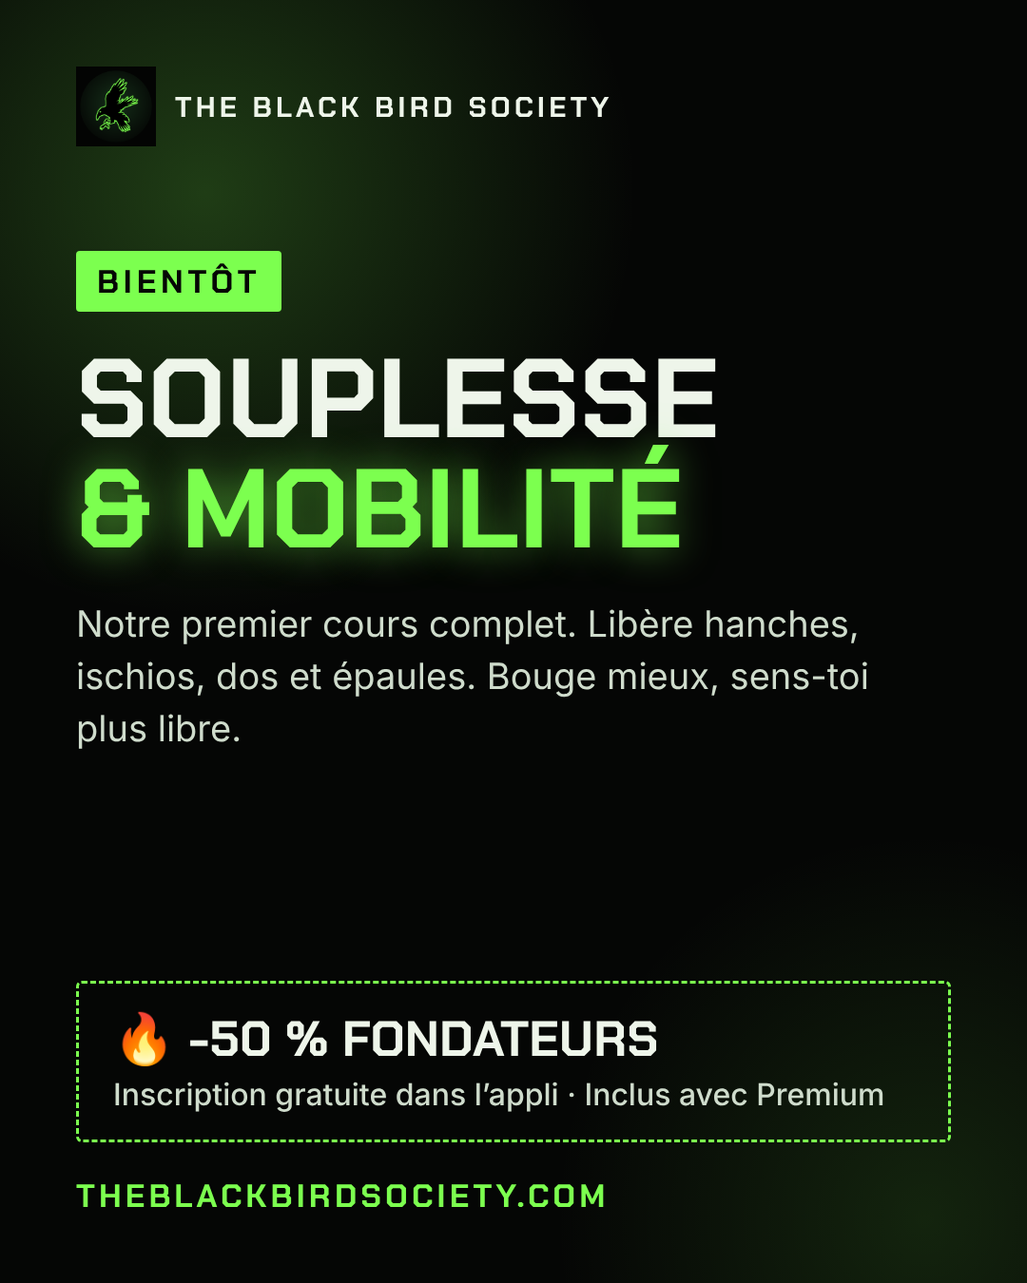
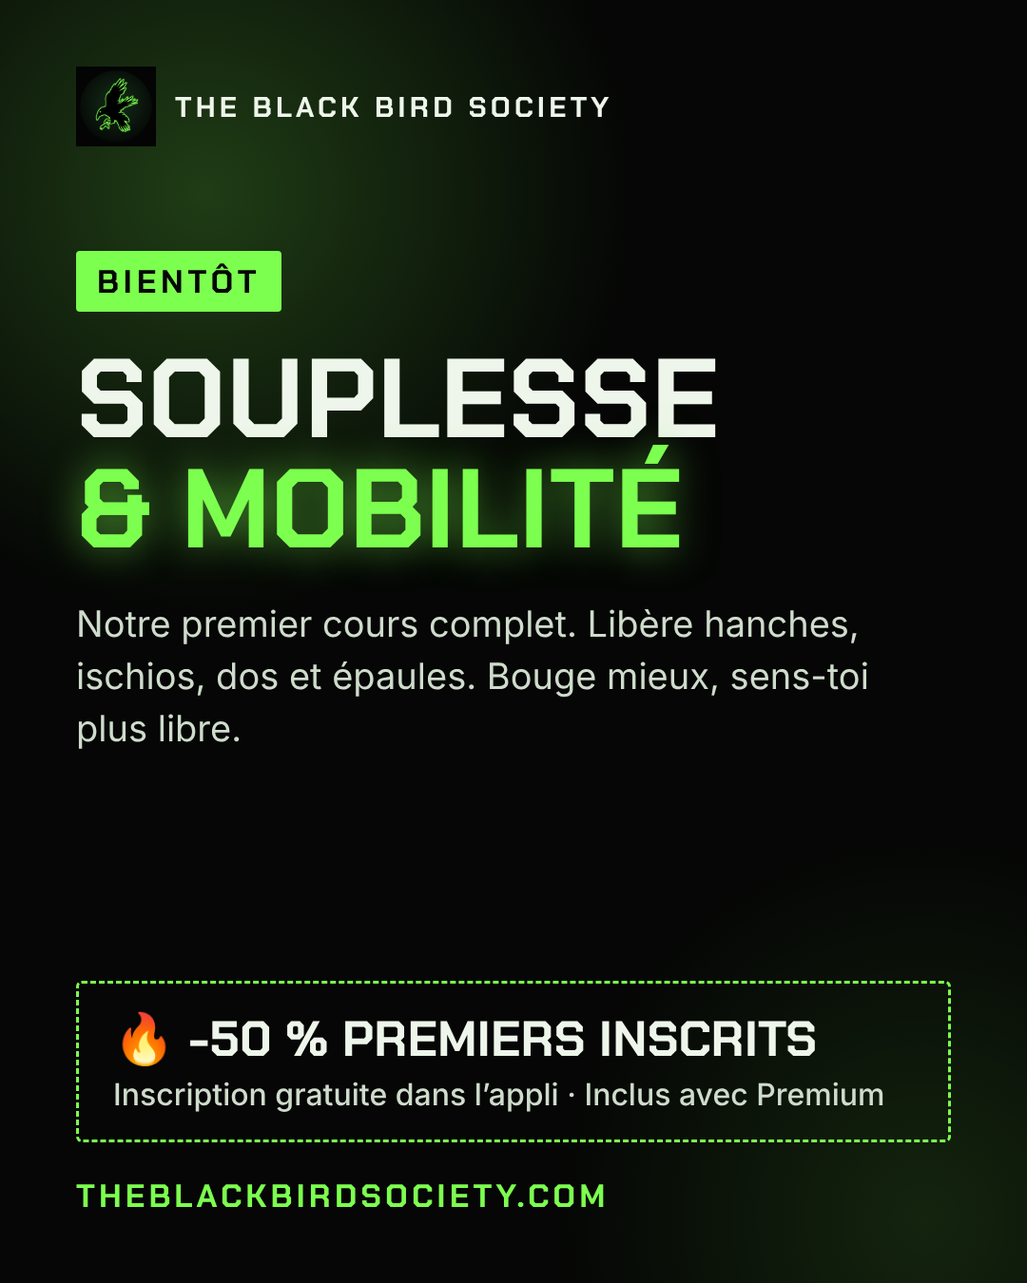
v75: Early bird wording for course offer (app, site, social images)
Claude-Session: https://claude.ai/code/session_01Uk22qZNG7xQMaRAJ8uwC6G

Changed region(s): [[0.3361, 0.7778, 0.7944, 0.84]]

diff --git a/courses.html b/courses.html
@@ -1,8 +1,8 @@
 <!doctype html>
 <html lang="en"><head><meta charset="utf-8"><meta name="viewport" content="width=device-width, initial-scale=1, viewport-fit=cover">
-<title>Society Courses | The Black Bird Society</title><meta name="description" content="Full fitness courses from The Black Bird Society. Flexibility & Mobility is coming soon: founders get 50% off, Premium members get every course included."><link rel="canonical" href="https://theblackbirdsociety.com/courses.html">
+<title>Society Courses | The Black Bird Society</title><meta name="description" content="Full fitness courses from The Black Bird Society. Flexibility & Mobility is coming soon: early birds get 50% off, Premium members get every course included."><link rel="canonical" href="https://theblackbirdsociety.com/courses.html">
 <meta name="theme-color" content="#050605"><link rel="icon" href="/favicon.ico" sizes="48x48"><link rel="icon" type="image/png" sizes="96x96" href="/favicon-96.png"><link rel="apple-touch-icon" href="/apple-touch-icon.png">
-<meta property="og:type" content="article"><meta property="og:url" content="https://theblackbirdsociety.com/courses.html"><meta property="og:title" content="Society Courses | The Black Bird Society"><meta property="og:description" content="Full fitness courses from The Black Bird Society. Flexibility & Mobility is coming soon: founders get 50% off, Premium members get every course included."><meta property="og:image" content="https://theblackbirdsociety.com/og.png">
+<meta property="og:type" content="article"><meta property="og:url" content="https://theblackbirdsociety.com/courses.html"><meta property="og:title" content="Society Courses | The Black Bird Society"><meta property="og:description" content="Full fitness courses from The Black Bird Society. Flexibility & Mobility is coming soon: early birds get 50% off, Premium members get every course included."><meta property="og:image" content="https://theblackbirdsociety.com/og.png">
 <link rel="preconnect" href="https://fonts.googleapis.com"><link rel="stylesheet" href="https://fonts.googleapis.com/css2?family=Chakra+Petch:wght@500;600;700&family=Noto+Sans+Runic&family=Inter:wght@400;500;600;700&display=swap">
 <link rel="stylesheet" href="/site.css"><meta name="google-adsense-account" content="ca-pub-9202968623257308">
 <script async src="https://pagead2.googlesyndication.com/pagead/js/adsbygoogle.js?client=ca-pub-9202968623257308" crossorigin="anonymous"></script>
@@ -29,12 +29,12 @@
 .fq h3{font-size:18px;margin-top:22px}.fq p{margin-top:6px!important;font-size:16px!important}
 .feat{border-color:var(--green-dim)!important;background:radial-gradient(80% 120% at 0% 0%,rgba(124,255,79,.12),transparent 60%),var(--surface)!important}
 @media (max-width:560px){.cg{grid-template-columns:1fr}}
-</style><script type="application/ld+json">{"@context": "https://schema.org", "@type": "Article", "headline": "Society Courses", "description": "Full fitness courses from The Black Bird Society. Flexibility & Mobility is coming soon: founders get 50% off, Premium members get every course included.", "author": {"@type": "Organization", "name": "The Black Bird Society"}, "publisher": {"@type": "Organization", "name": "The Black Bird Society", "logo": {"@type": "ImageObject", "url": "https://theblackbirdsociety.com/icon-512.png"}}, "image": "https://theblackbirdsociety.com/og.png", "datePublished": "2026-11-20", "dateModified": "2026-11-20", "mainEntityOfPage": "https://theblackbirdsociety.com/courses.html", "inLanguage": "en"}</script><script type="application/ld+json">{"@context": "https://schema.org", "@type": "BreadcrumbList", "itemListElement": [{"@type": "ListItem", "position": 1, "name": "Home", "item": "https://theblackbirdsociety.com/"}, {"@type": "ListItem", "position": 2, "name": "Blog", "item": "https://theblackbirdsociety.com/blog/"}, {"@type": "ListItem", "position": 3, "name": "Home or gym? Both work"}]}</script></head><body>
+</style><script type="application/ld+json">{"@context": "https://schema.org", "@type": "Article", "headline": "Society Courses", "description": "Full fitness courses from The Black Bird Society. Flexibility & Mobility is coming soon: early birds get 50% off, Premium members get every course included.", "author": {"@type": "Organization", "name": "The Black Bird Society"}, "publisher": {"@type": "Organization", "name": "The Black Bird Society", "logo": {"@type": "ImageObject", "url": "https://theblackbirdsociety.com/icon-512.png"}}, "image": "https://theblackbirdsociety.com/og.png", "datePublished": "2026-11-20", "dateModified": "2026-11-20", "mainEntityOfPage": "https://theblackbirdsociety.com/courses.html", "inLanguage": "en"}</script><script type="application/ld+json">{"@context": "https://schema.org", "@type": "BreadcrumbList", "itemListElement": [{"@type": "ListItem", "position": 1, "name": "Home", "item": "https://theblackbirdsociety.com/"}, {"@type": "ListItem", "position": 2, "name": "Blog", "item": "https://theblackbirdsociety.com/blog/"}, {"@type": "ListItem", "position": 3, "name": "Home or gym? Both work"}]}</script></head><body>
 <header class="top"><div class="wrap">
   <a class="brand" href="/"><img src="/icon.png" alt=""><span><b>THE BLACK BIRD SOCIETY</b><small>EST. 2026</small></span></a>
   <nav class="links"><a class="hide-m" href="/#who">Who it's for</a><a class="hide-m" href="/#features">The app</a><a class="hide-m" href="/courses.html">Courses</a><a class="hide-m" href="/blog/">Blog</a><a class="hide-m" href="/#pricing">Pricing</a><a href="/app">Open the app</a></nav>
 </div></header>
-<main class="wrap pg"><div class="art" data-l="en" id="art"><p class="crumb"><a href="/">Home</a> / Courses</p><div class="lg"><button data-x="en" class="on">EN</button><button data-x="fr">FR</button></div><div class="en"><h1>Society Courses</h1><p class="lead">Deep-dive programs built by our coaches. Buy a course once and keep it forever, or get every course included with Premium. The free app stays free.</p><div class="cta-box feat"><span class="btag">Coming soon</span><h3 style="font-size:30px;margin-top:10px">Flexibility &amp; Mobility</h3><p>A complete program to free up your hips, hamstrings, back and shoulders. Move better, feel looser, train with less pain.</p><p>🔥 <b>Founder offer:</b> join the list now and get <b>50% off</b> at launch. Your rank discount stacks on top.</p><a class="btn btn-green" href="/app?c=1">Join the list · 50% off</a></div><div class="ghead"><span>ᚠ</span><h2>How it works</h2></div><div class="cg"><div><b>Buy once, keep forever</b><span>No subscription needed. The course is yours for life.</span></div><div><b>First lesson free</b><span>Try it before you buy, every course.</span></div><div><b>Premium includes all</b><span>Premium members get every course, now and future, at no extra cost.</span></div><div><b>Rank perks</b><span>The more you train, the less you pay: up to 20% off.</span></div></div><div class="ghead"><span>ᚱ</span><h2>Rank perks</h2></div><div class="ck"><div><i>ᛒ</i>Fledgling<em>—</em></div><div><i>ᚱ</i>Crow<em>-5%</em></div><div><i>ᚢ</i>Raven<em>-10%</em></div><div><i>ᛖ</i>Black Bird<em>-15%</em></div><div><i>ᛞ</i>Elder<em>-20%</em></div></div><div class="ghead"><span>ᚷ</span><h2>Vote for the next course</h2></div><p>The most wanted gets built next, and voters get the founder price too. Vote in the app.</p><div class="ck"><div>Abs &amp; Core 30 days</div><div>Glute Builder</div><div>First Pull-up</div><div>Back &amp; Posture</div><div>60+ Strength &amp; Balance</div><div>Pregnancy &amp; After Birth</div><div>Fat Loss 8 weeks</div></div><p><a class="btn btn-green" href="/app?c=1">Vote in the app</a></p><div class="ghead"><span>ᛗ</span><h2>FAQ</h2></div><div class="fq"><h3>Is the app still free?</h3><p>Yes. Every free workout, meal and tool stays free. Courses are an optional extra.</p><h3>When does Flexibility &amp; Mobility launch?</h3><p>Soon. Join the list in the app and you'll be the first to know, with your 50% founder price.</p><h3>I'm Premium. Do I pay for courses?</h3><p>No. Every Society course is included in Premium.</p></div></div><div class="fr"><h1>Les cours de la Society</h1><p class="lead">Des programmes complets créés par nos coachs. Achète un cours une fois et garde-le pour toujours, ou profite de tous les cours inclus avec Premium. L'appli gratuite reste gratuite.</p><div class="cta-box feat"><span class="btag">Bientôt</span><h3 style="font-size:30px;margin-top:10px">Souplesse &amp; Mobilité</h3><p>Un programme complet pour libérer tes hanches, ischios, dos et épaules. Bouge mieux, sens-toi plus libre, entraîne-toi avec moins de douleurs.</p><p>🔥 <b>Offre fondateur :</b> inscris-toi maintenant et profite de <b>-50 %</b> au lancement. La réduction de ton rang s'ajoute en plus.</p><a class="btn btn-green" href="/app?c=1">M'inscrire · -50 %</a></div><div class="ghead"><span>ᚠ</span><h2>Comment ça marche</h2></div><div class="cg"><div><b>Achète une fois, garde-le</b><span>Pas besoin d'abonnement. Le cours est à toi pour toujours.</span></div><div><b>Première leçon offerte</b><span>Essaie avant d'acheter, pour chaque cours.</span></div><div><b>Premium inclut tout</b><span>Les membres Premium ont tous les cours, maintenant et à venir, sans frais en plus.</span></div><div><b>Avantages de rang</b><span>Plus tu t'entraînes, moins tu paies : jusqu'à -20 %.</span></div></div><div class="ghead"><span>ᚱ</span><h2>Avantages de rang</h2></div><div class="ck"><div><i>ᛒ</i>Oisillon<em>—</em></div><div><i>ᚱ</i>Corbeau<em>-5%</em></div><div><i>ᚢ</i>Grand Corbeau<em>-10%</em></div><div><i>ᛖ</i>Black Bird<em>-15%</em></div><div><i>ᛞ</i>Ancien<em>-20%</em></div></div><div class="ghead"><span>ᚷ</span><h2>Vote pour le prochain cours</h2></div><p>Le plus demandé sera créé ensuite, et les votants ont aussi le prix fondateur. Vote dans l’appli.</p><div class="ck"><div>Abdos &amp; Gainage 30 jours</div><div>Fessiers sculptés</div><div>Première traction</div><div>Dos &amp; Posture</div><div>60+ Force &amp; Équilibre</div><div>Grossesse &amp; Après bébé</div><div>Perte de gras 8 semaines</div></div><p><a class="btn btn-green" href="/app?c=1">Voter dans l’appli</a></p><div class="ghead"><span>ᛗ</span><h2>FAQ</h2></div><div class="fq"><h3>L'appli reste gratuite ?</h3><p>Oui. Toutes les séances, repas et outils gratuits restent gratuits. Les cours sont un extra en option.</p><h3>Quand sort Souplesse &amp; Mobilité ?</h3><p>Bientôt. Inscris-toi dans l'appli et tu seras prévenu en premier, avec ton prix fondateur à -50 %.</p><h3>Je suis Premium. Je paie les cours ?</h3><p>Non. Tous les cours de la Society sont inclus dans Premium.</p></div></div></div></main>
+<main class="wrap pg"><div class="art" data-l="en" id="art"><p class="crumb"><a href="/">Home</a> / Courses</p><div class="lg"><button data-x="en" class="on">EN</button><button data-x="fr">FR</button></div><div class="en"><h1>Society Courses</h1><p class="lead">Deep-dive programs built by our coaches. Buy a course once and keep it forever, or get every course included with Premium. The free app stays free.</p><div class="cta-box feat"><span class="btag">Coming soon</span><h3 style="font-size:30px;margin-top:10px">Flexibility &amp; Mobility</h3><p>A complete program to free up your hips, hamstrings, back and shoulders. Move better, feel looser, train with less pain.</p><p>🔥 <b>Early bird offer:</b> join the list now and get <b>50% off</b> at launch. Your rank discount stacks on top.</p><a class="btn btn-green" href="/app?c=1">Join the list · 50% off</a></div><div class="ghead"><span>ᚠ</span><h2>How it works</h2></div><div class="cg"><div><b>Buy once, keep forever</b><span>No subscription needed. The course is yours for life.</span></div><div><b>First lesson free</b><span>Try it before you buy, every course.</span></div><div><b>Premium includes all</b><span>Premium members get every course, now and future, at no extra cost.</span></div><div><b>Rank perks</b><span>The more you train, the less you pay: up to 20% off.</span></div></div><div class="ghead"><span>ᚱ</span><h2>Rank perks</h2></div><div class="ck"><div><i>ᛒ</i>Fledgling<em>—</em></div><div><i>ᚱ</i>Crow<em>-5%</em></div><div><i>ᚢ</i>Raven<em>-10%</em></div><div><i>ᛖ</i>Black Bird<em>-15%</em></div><div><i>ᛞ</i>Elder<em>-20%</em></div></div><div class="ghead"><span>ᚷ</span><h2>Vote for the next course</h2></div><p>The most wanted gets built next, and voters get the early bird price too. Vote in the app.</p><div class="ck"><div>Abs &amp; Core 30 days</div><div>Glute Builder</div><div>First Pull-up</div><div>Back &amp; Posture</div><div>60+ Strength &amp; Balance</div><div>Pregnancy &amp; After Birth</div><div>Fat Loss 8 weeks</div></div><p><a class="btn btn-green" href="/app?c=1">Vote in the app</a></p><div class="ghead"><span>ᛗ</span><h2>FAQ</h2></div><div class="fq"><h3>Is the app still free?</h3><p>Yes. Every free workout, meal and tool stays free. Courses are an optional extra.</p><h3>When does Flexibility &amp; Mobility launch?</h3><p>Soon. Join the list in the app and you'll be the first to know, with your 50% early bird price.</p><h3>I'm Premium. Do I pay for courses?</h3><p>No. Every Society course is included in Premium.</p></div></div><div class="fr"><h1>Les cours de la Society</h1><p class="lead">Des programmes complets créés par nos coachs. Achète un cours une fois et garde-le pour toujours, ou profite de tous les cours inclus avec Premium. L'appli gratuite reste gratuite.</p><div class="cta-box feat"><span class="btag">Bientôt</span><h3 style="font-size:30px;margin-top:10px">Souplesse &amp; Mobilité</h3><p>Un programme complet pour libérer tes hanches, ischios, dos et épaules. Bouge mieux, sens-toi plus libre, entraîne-toi avec moins de douleurs.</p><p>🔥 <b>Offre premiers inscrits :</b> inscris-toi maintenant et profite de <b>-50 %</b> au lancement. La réduction de ton rang s'ajoute en plus.</p><a class="btn btn-green" href="/app?c=1">M'inscrire · -50 %</a></div><div class="ghead"><span>ᚠ</span><h2>Comment ça marche</h2></div><div class="cg"><div><b>Achète une fois, garde-le</b><span>Pas besoin d'abonnement. Le cours est à toi pour toujours.</span></div><div><b>Première leçon offerte</b><span>Essaie avant d'acheter, pour chaque cours.</span></div><div><b>Premium inclut tout</b><span>Les membres Premium ont tous les cours, maintenant et à venir, sans frais en plus.</span></div><div><b>Avantages de rang</b><span>Plus tu t'entraînes, moins tu paies : jusqu'à -20 %.</span></div></div><div class="ghead"><span>ᚱ</span><h2>Avantages de rang</h2></div><div class="ck"><div><i>ᛒ</i>Oisillon<em>—</em></div><div><i>ᚱ</i>Corbeau<em>-5%</em></div><div><i>ᚢ</i>Grand Corbeau<em>-10%</em></div><div><i>ᛖ</i>Black Bird<em>-15%</em></div><div><i>ᛞ</i>Ancien<em>-20%</em></div></div><div class="ghead"><span>ᚷ</span><h2>Vote pour le prochain cours</h2></div><p>Le plus demandé sera créé ensuite, et les votants ont aussi le tarif premiers inscrits. Vote dans l’appli.</p><div class="ck"><div>Abdos &amp; Gainage 30 jours</div><div>Fessiers sculptés</div><div>Première traction</div><div>Dos &amp; Posture</div><div>60+ Force &amp; Équilibre</div><div>Grossesse &amp; Après bébé</div><div>Perte de gras 8 semaines</div></div><p><a class="btn btn-green" href="/app?c=1">Voter dans l’appli</a></p><div class="ghead"><span>ᛗ</span><h2>FAQ</h2></div><div class="fq"><h3>L'appli reste gratuite ?</h3><p>Oui. Toutes les séances, repas et outils gratuits restent gratuits. Les cours sont un extra en option.</p><h3>Quand sort Souplesse &amp; Mobilité ?</h3><p>Bientôt. Inscris-toi dans l'appli et tu seras prévenu en premier, avec ton tarif premiers inscrits à -50 %.</p><h3>Je suis Premium. Je paie les cours ?</h3><p>Non. Tous les cours de la Society sont inclus dans Premium.</p></div></div></div></main>
 <footer><div class="wrap">
   <div><a class="brand" href="/"><img src="/icon.png" alt=""><span><b>THE BLACK BIRD SOCIETY</b><small>EST. 2026</small></span></a>
   <p class="small" style="margin-top:12px">Contact: <a href="mailto:contact@theblackbirdsociety.com" style="color:var(--green)">contact@theblackbirdsociety.com</a></p>

diff --git a/app.html b/app.html
@@ -3088,26 +3088,26 @@ function crsSheet(){
   </div>`;
 }
 { const X = {
-en:{crsT:"Society Courses",crsNew:"New",crsTile:"Flexibility & Mobility · soon",crsSee:"See the offer",crsNudge:"Society Courses are coming: Flexibility & Mobility first. Founders get 50% off.",
+en:{crsT:"Society Courses",crsNew:"New",crsTile:"Flexibility & Mobility · soon",crsSee:"See the offer",crsNudge:"Society Courses are coming: Flexibility & Mobility first. Early birds get 50% off.",
 crsSub:"Deep-dive programs built by our coaches. Buy a course once and keep it forever, or get every course included with Premium. The free app stays free.",
 crsSoon:"Coming soon",crs_flex:"Flexibility & Mobility",crsFlexP:"A complete program to free up your hips, hamstrings, back and shoulders. Move better, feel looser, train with less pain.",
 crsB1:"Step-by-step guided sessions with timer and beeps",crsB2:"For every level, from stiff beginner up",crsB3:"First lesson free for everyone",crsB4:"Buy once, yours forever",
-crsDealT:"Founder offer:",crsDealP:"join the list now and get 50% off at launch. Your rank discount stacks on top.",crsJoin:"Join the list · 50% off",crsOnList:"You're on the list",crsCount:"{n} members already on the list",
+crsDealT:"Early bird offer:",crsDealP:"join the list now and get 50% off at launch. Your rank discount stacks on top.",crsJoin:"Join the list · 50% off",crsOnList:"You're on the list",crsCount:"{n} members already on the list",
 crsProYes:"You're Premium: every Society course will be included for you, at no extra cost.",crsProNo:"Premium includes every Society course, now and in the future. One plan, everything unlocked.",
 crsRkT:"Rank perks",crsRkP:"The more you train, the less you pay. Your rank gives you a discount on every course.",crsYou:"you",
-crsVoteT:"Vote for the next course",crsVoteP:"Tap the ones you want. The most wanted gets built next, and voters get the founder price too.",crsVote:"I want it",crsVoteOn:"Voted",
+crsVoteT:"Vote for the next course",crsVoteP:"Tap the ones you want. The most wanted gets built next, and voters get the early bird price too.",crsVote:"I want it",crsVoteOn:"Voted",
 crs_abs30:"Abs & Core 30 days",crsd_abs30:"A daily core challenge",crs_glutes:"Glute Builder",crsd_glutes:"Stronger, rounder glutes",crs_pullup:"First Pull-up",crsd_pullup:"From zero to your first rep",
 crs_posture:"Back & Posture",crsd_posture:"For desk days and sore backs",crs_over60:"60+ Strength & Balance",crsd_over60:"Stay strong and steady",crs_mama:"Pregnancy & After Birth",crsd_mama:"A full program, step by step",crs_fatloss:"Fat Loss 8 weeks",crsd_fatloss:"Training + meals + grocery lists",
-crsLogin:"Log in to join the list.",crsJoined:"You're on the list! We'll tell you first, with your 50% off.",crsVoted:"Vote counted. Thanks!",crsPf:"Every Society course included (Flexibility & Mobility coming soon)",
+crsLogin:"Log in to join the list.",crsJoined:"You're on the list! We'll tell you first, with your early bird 50% off.",crsVoted:"Vote counted. Thanks!",crsPf:"Every Society course included (Flexibility & Mobility coming soon)",
 n_adm_course:"📚 {name} wants the course: {course}"},
-fr:{crsT:"Cours de la Society",crsNew:"Nouveau",crsTile:"Souplesse & Mobilité · bientôt",crsSee:"Voir l'offre",crsNudge:"Les cours de la Society arrivent : Souplesse & Mobilité en premier. -50 % pour les fondateurs.",
+fr:{crsT:"Cours de la Society",crsNew:"Nouveau",crsTile:"Souplesse & Mobilité · bientôt",crsSee:"Voir l'offre",crsNudge:"Les cours de la Society arrivent : Souplesse & Mobilité en premier. -50 % pour les premiers inscrits.",
 crsSub:"Des programmes complets créés par nos coachs. Achète un cours une fois et garde-le pour toujours, ou profite de tous les cours inclus avec Premium. L'appli gratuite reste gratuite.",
 crsSoon:"Bientôt",crs_flex:"Souplesse & Mobilité",crsFlexP:"Un programme complet pour libérer tes hanches, ischios, dos et épaules. Bouge mieux, sens-toi plus libre, entraîne-toi avec moins de douleurs.",
 crsB1:"Séances guidées pas à pas avec minuteur et bips",crsB2:"Pour tous les niveaux, même si tu es raide",crsB3:"Première leçon offerte à tous",crsB4:"Achète une fois, à toi pour toujours",
-crsDealT:"Offre fondateur :",crsDealP:"inscris-toi maintenant et profite de -50 % au lancement. La réduction de ton rang s'ajoute en plus.",crsJoin:"M'inscrire · -50 %",crsOnList:"Tu es sur la liste",crsCount:"{n} membres déjà inscrits",
+crsDealT:"Offre premiers inscrits :",crsDealP:"inscris-toi maintenant et profite de -50 % au lancement. La réduction de ton rang s'ajoute en plus.",crsJoin:"M'inscrire · -50 %",crsOnList:"Tu es sur la liste",crsCount:"{n} membres déjà inscrits",
 crsProYes:"Tu es Premium : tous les cours de la Society seront inclus pour toi, sans frais en plus.",crsProNo:"Premium inclut tous les cours de la Society, maintenant et à venir. Un seul abonnement, tout débloqué.",
 crsRkT:"Avantages de rang",crsRkP:"Plus tu t'entraînes, moins tu paies. Ton rang te donne une réduction sur chaque cours.",crsYou:"toi",
-crsVoteT:"Vote pour le prochain cours",crsVoteP:"Touche ceux que tu veux. Le plus demandé sera créé ensuite, et les votants ont aussi le prix fondateur.",crsVote:"Je le veux",crsVoteOn:"Voté",
+crsVoteT:"Vote pour le prochain cours",crsVoteP:"Touche ceux que tu veux. Le plus demandé sera créé ensuite, et les votants ont aussi le tarif premiers inscrits.",crsVote:"Je le veux",crsVoteOn:"Voté",
 crs_abs30:"Abdos & Gainage 30 jours",crsd_abs30:"Un défi gainage chaque jour",crs_glutes:"Fessiers sculptés",crsd_glutes:"Des fessiers plus forts et plus ronds",crs_pullup:"Première traction",crsd_pullup:"De zéro à ta première rep",
 crs_posture:"Dos & Posture",crsd_posture:"Pour les journées au bureau et le mal de dos",crs_over60:"60+ Force & Équilibre",crsd_over60:"Rester fort et stable",crs_mama:"Grossesse & Après bébé",crsd_mama:"Un programme complet, pas à pas",crs_fatloss:"Perte de gras 8 semaines",crsd_fatloss:"Entraînement + repas + listes de courses",
 crsLogin:"Connecte-toi pour t'inscrire.",crsJoined:"Tu es sur la liste ! Tu seras prévenu en premier, avec tes -50 %.",crsVoted:"Vote enregistré. Merci !",crsPf:"Tous les cours de la Society inclus (Souplesse & Mobilité bientôt)",
@@ -4911,7 +4911,7 @@ if("serviceWorker" in navigator && location.protocol === "https:") navigator.ser
 /* new version check: on open and every time the app comes back to the screen */
 (() => { try{ if(new URLSearchParams(location.search).get("n") === "1"){ setTimeout(() => { if(st.user){ st.nOpen = true; pushState(); render(); } }, 900); history.replaceState(history.state, "", location.pathname); } }catch(e){} })();
 setTimeout(() => { if(st.user && st.user.cloud) pushState(); }, 3000);
-const APP_V = "bbt-v74";
+const APP_V = "bbt-v75";
 function verCheck(){ if(location.protocol !== "https:") return;
   if(st.newV){ if(st.view !== "work") updNow(); return; }
   fetch("/sw.js?v=" + Date.now(), {cache:"no-store"}).then(r => r.text()).then(tx2 => { const m = tx2.match(/bbt-v\d+/); if(m && +m[0].slice(5) > +APP_V.slice(5)){ st.newV = m[0]; if(st.view !== "work") updNow(); } }).catch(() => {}); }

diff --git a/index.html b/index.html
@@ -216,7 +216,7 @@
 <section id="courses" class="sec"><div class="wrap">
   <div class="sec-head"><p class="eyebrow">New · Society Courses</p><h2>Go deeper with a full course.</h2><p class="muted">Step-by-step programs built by our coaches. Buy a course once and keep it forever, or get every course included with Premium. The free app stays free.</p></div>
   <div class="card crs-hero"><span class="tag">Coming soon</span><h3>Flexibility &amp; Mobility</h3><p class="muted">A complete program to free up your hips, hamstrings, back and shoulders. Move better, feel looser, train with less pain.</p>
-    <ul class="ticks"><li>Founder offer: 50% off at launch when you join the list</li><li>First lesson free for everyone</li><li>Rank perks: up to 20% extra off as you train</li><li>Included in Premium</li></ul>
+    <ul class="ticks"><li>Early bird: 50% off at launch when you join the list</li><li>First lesson free for everyone</li><li>Rank perks: up to 20% extra off as you train</li><li>Included in Premium</li></ul>
     <div class="crs-cta"><a class="btn btn-green" href="/app?c=1">Join the list · 50% off</a><a class="btn" href="/courses.html">See all courses</a></div></div>
 </div></section>
 <style>.crs-hero{position:relative;display:flex;flex-direction:column;gap:12px;max-width:760px;border-color:var(--green-dim)!important;background:radial-gradient(80% 120% at 0% 0%,rgba(124,255,79,.12),transparent 60%),var(--surface)}.crs-hero .tag{align-self:flex-start}.crs-hero h3{font-size:clamp(24px,3.5vw,34px)}.crs-cta{display:flex;flex-wrap:wrap;gap:10px;margin-top:6px}</style>

diff --git a/sw.js b/sw.js
@@ -1,5 +1,5 @@
 /* Black Bird Training offline support: the app shell is cached so workouts run without a signal. */
-const CACHE = "bbt-v74";
+const CACHE = "bbt-v75";
 const SHELL = ["/app", "/icon-192.png", "/icon-512.png", "/maskable-512.png", "/apple-touch-icon.png", "/favicon.ico", "/manifest.json", "/qrcode.min.js"];
 self.addEventListener("install", e => {
   e.waitUntil(caches.open(CACHE).then(c => c.addAll(SHELL)).then(() => self.skipWaiting()));
